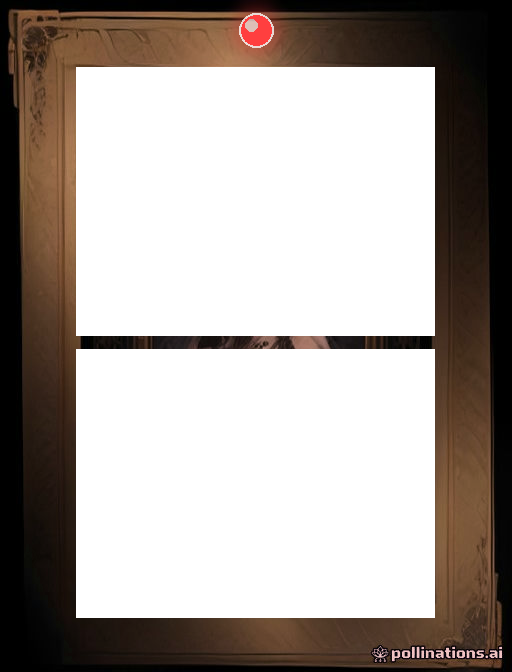
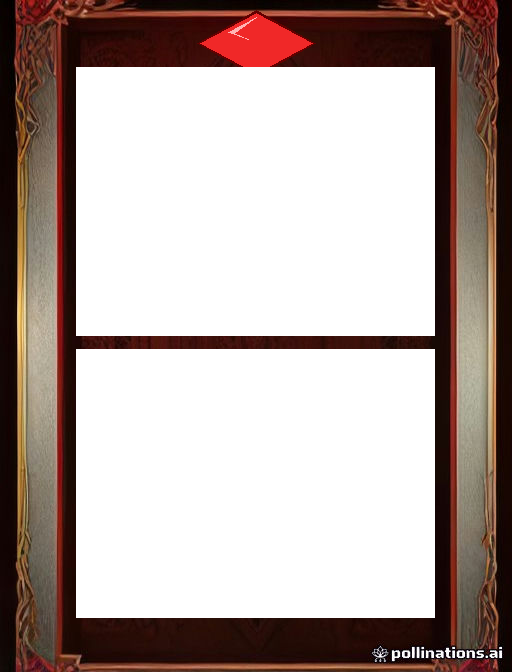
统一稀有度卡框：AI生成5种色调金属边框+PIL统一绘制宝石+镂空处理
- AI生成统一风格金属边框（basic灰黑/uncommon青铜绿/rare黄金/epic暗紫/unique血红）
- PIL统一绘制菱形宝石（uncommon绿/rare琥珀/epic紫/unique红），位置大小完全一致
- process_frames.py加入宝石绘制功能+镂空卡图区(10%-50%)和描述区(52%-92%)
- 删除旧底框frame_base_raw.png
- 识图验证：风格统一8.5/10，宝石位置一致，稀有度区别明显

diff --git a/art_assets/generate_frames.py b/art_assets/generate_frames.py
@@ -1,52 +1,59 @@
 """
-Generate card frame assets for different rarities using Pollinations.ai (free).
+三段式提示词生成统一卡框：规范+风格+稀有度细节
 Usage: python generate_frames.py
 """
 import urllib.request
 import urllib.parse
 import time
 import os
+from PIL import Image
 
 BASE_DIR = os.path.dirname(os.path.abspath(__file__))
 FRAMES_DIR = os.path.join(BASE_DIR, "frames")
 os.makedirs(FRAMES_DIR, exist_ok=True)
 
-STYLE = (
-    "dark fantasy card game frame, "
-    "very wide thick broad ornate metallic border frame, "
-    "the border takes up 15 percent of the card width on each side, "
-    "heavy decorative corners with runes and filigree, "
-    "the center is flat solid black with absolutely nothing inside, "
+SPEC = (
+    "vertical portrait card frame, "
+    "wide ornate border occupying 15 percent width on each side, "
+    "center is completely empty solid black, "
     "no artwork no illustration no portrait no image in the center, "
-    "only the wide ornate border frame is visible, "
-    "vertical portrait card layout, "
-    "silver and dark grey metal tones with subtle wear, "
-    "high quality game UI design, "
+    "card art area top 10 to 50 percent and text area bottom 52 to 92 percent must be empty, "
     "perfectly symmetrical left right mirror symmetry, "
-    "perfectly straight horizontal vertical no tilt no rotation no perspective, "
-    "flat 2D front view no 3D no angle, "
-    "no text no watermark no letters no words"
+    "no tilt no rotation no perspective, flat 2D front view, "
+    "no text no letters no words no watermark"
 )
 
-FRAMES = {
+STYLE = (
+    "dark fantasy card game frame, "
+    "heavy metallic ornate border with runes and filigree, "
+    "decorative corners, intricate scrollwork, "
+    "high quality game UI design, detailed, sharp"
+)
+
+RARITY_DETAIL = {
     "frame_basic": (
-        "plain simple border, no gem, no jewel, "
+        "weathered iron metal, dark steel grey tones, "
+        "simple plain border without any gem or jewel, "
         "common basic card frame"
     ),
     "frame_uncommon": (
-        "a glowing bright blue sapphire gem embedded at the top center of the border, "
-        "blue magical energy emanating from the gem"
+        "polished bronze metal with green patina, "
+        "a glowing bright emerald gem embedded at top center of border, "
+        "green magical energy emanating from the gem"
     ),
     "frame_rare": (
-        "a glowing warm orange amber gem embedded at the top center of the border, "
-        "orange golden magical energy emanating from the gem"
+        "shining gold metal, warm golden tones, "
+        "a glowing amber gem embedded at top center of border, "
+        "golden energy emanating from the gem"
     ),
     "frame_epic": (
-        "a glowing vivid purple amethyst gem embedded at the top center of the border, "
+        "dark obsidian metal with purple veins, "
+        "a glowing amethyst gem embedded at top center of border, "
         "purple arcane energy emanating from the gem"
     ),
     "frame_unique": (
-        "a glowing crimson red ruby gem embedded at the top center of the border, "
+        "crimson red metal with fire patterns, "
+        "a glowing ruby gem embedded at top center of border, "
         "red fiery energy emanating from the gem, legendary card frame"
     ),
 }
@@ -59,43 +66,45 @@ def generate(prompt, filename, width=512, height=672, seed=42):
         f"?width={width}&height={height}&model=flux&nologo=true&seed={seed}"
     )
     filepath = os.path.join(FRAMES_DIR, filename)
-    try:
-        req = urllib.request.Request(url, headers={"User-Agent": "Mozilla/5.0"})
-        with urllib.request.urlopen(req, timeout=180) as resp:
-            data = resp.read()
-        if len(data) < 1000:
-            print(f"  FAIL (too small: {len(data)} bytes): {filename}")
-            return False
-        with open(filepath, "wb") as f:
-            f.write(data)
-        print(f"  OK ({len(data)} bytes): {filename}")
-        return True
-    except Exception as e:
-        print(f"  FAIL ({e}): {filename}")
-        return False
+    for attempt in range(5):
+        try:
+            req = urllib.request.Request(url, headers={"User-Agent": "Mozilla/5.0"})
+            with urllib.request.urlopen(req, timeout=180) as resp:
+                data = resp.read()
+            if len(data) < 1000:
+                print(f"  FAIL (too small): attempt {attempt+1}")
+                continue
+            with open(filepath, "wb") as f:
+                f.write(data)
+            img = Image.open(filepath).convert("RGBA")
+            img.save(filepath, "PNG")
+            print(f"  OK ({len(data)} bytes): {filename}")
+            return True
+        except Exception as e:
+            print(f"  FAIL ({e}): attempt {attempt+1}")
+        time.sleep(30)
+    return False
 
 
 def main():
-    total = len(FRAMES)
+    total = len(RARITY_DETAIL)
     ok = 0
-    for i, (name, gem_desc) in enumerate(FRAMES.items()):
-        prompt = f"{gem_desc}, {STYLE}"
+    for i, (name, detail) in enumerate(RARITY_DETAIL.items()):
+        prompt = f"{detail}, {STYLE}, {SPEC}"
         filename = f"{name}.png"
         print(f"[{i+1}/{total}] {name}...")
+        print(f"  prompt: {detail[:60]}...")
         seed = hash(name) % 10000
-        success = False
-        for attempt in range(5):
-            if generate(prompt, filename, seed=seed + attempt):
-                success = True
-                break
-            print(f"  retry {attempt+1}/5, waiting 30s...")
-            time.sleep(30)
-        if success:
+        if generate(prompt, filename, seed=seed):
             ok += 1
             time.sleep(30)
-        else:
-            print(f"  SKIPPED after 5 retries: {name}")
     print(f"\nDone: {ok}/{total} succeeded")
+
+    if ok == total:
+        print("\n=== Processing (cutout center) ===")
+        import process_frames
+        for name in RARITY_DETAIL:
+            process_frames.process_frame(f"{name}.png")
 
 
 if __name__ == "__main__":

diff --git a/art_assets/process_frames.py b/art_assets/process_frames.py
@@ -1,22 +1,24 @@
 """
 处理卡框图片：
 1. 用 PIL 重新保存为真正 PNG 格式（Pollinations.ai 返回 JPEG）
-2. 精确镂空卡图区（上半部分）和描述区（下半部分），只保留外圈边框和中间分隔线
+2. PIL 统一绘制宝石（AI 无法稳定生成宝石，改用代码绘制）
+3. 精确镂空卡图区（上半部分）和描述区（下半部分），只保留外圈边框和中间分隔线
 
 卡牌布局（512×672，比例 1:1.3125）：
-- 外圈边框：约 11% 宽（扩大边框，防止遮挡）
-- 卡图区：y = 8% ~ 50%, x = 11% ~ 89%  → 透明
+- 外圈边框：约 15% 宽（扩大边框，防止遮挡）
+- 宝石：顶部中心，y ≈ 3%~9%
+- 卡图区：y = 10% ~ 50%, x = 15% ~ 85%  → 透明
 - 中间分隔线：y = 50% ~ 52%  → 保留
-- 描述区：y = 52% ~ 93%, x = 11% ~ 89%  → 透明
-- 底部稀有度色带：y = 93% ~ 98%  → 保留
+- 描述区：y = 52% ~ 92%, x = 15% ~ 85%  → 透明
+- 底部稀有度色带：y = 92% ~ 98%  → 保留
 """
-from PIL import Image
+from PIL import Image, ImageDraw
 import os
 
 FRAME_DIR = os.path.join(os.path.dirname(__file__), "frames")
 
-# 边框保留宽度（百分比）— 扩大到 15% 防止遮挡
-BORDER_W_PCT = 0.15   # 左右边框保留 15%
+# 边框保留宽度（百分比）
+BORDER_W_PCT = 0.15
 
 # 卡图区（上半部分中间）→ 透明
 ART_TOP_PCT = 0.10
@@ -26,10 +28,88 @@ ART_BOT_PCT = 0.50
 DESC_TOP_PCT = 0.52
 DESC_BOT_PCT = 0.92
 
+# 宝石配置（按稀有度）
+# basic 无宝石
+GEM_CONFIG = {
+    "frame_uncommon.png": {
+        "color": (40, 220, 80),       # 绿宝石
+        "highlight": (180, 255, 200), # 浅绿高光
+        "edge": (10, 80, 25),         # 深绿描边
+    },
+    "frame_rare.png": {
+        "color": (255, 170, 30),      # 琥珀/橙宝石
+        "highlight": (255, 230, 150), # 浅金高光
+        "edge": (100, 60, 0),         # 深棕描边
+    },
+    "frame_epic.png": {
+        "color": (170, 60, 255),      # 紫宝石
+        "highlight": (220, 170, 255), # 浅紫高光
+        "edge": (60, 10, 100),        # 深紫描边
+    },
+    "frame_unique.png": {
+        "color": (240, 40, 40),       # 红宝石
+        "highlight": (255, 180, 180), # 浅红高光
+        "edge": (100, 0, 0),          # 深红描边
+    },
+}
 
-def process_frame(name):
-    path = os.path.join(FRAME_DIR, name)
-    img = Image.open(path).convert("RGBA")
+
+def draw_gem(img, config):
+    """在卡框顶部中心绘制菱形宝石 + 高光 + 描边"""
+    w, h = img.size
+    cx = w // 2
+    cy = int(h * 0.065)  # 宝石中心 y 位置
+
+    gem_w = int(w * 0.11)  # 宝石半宽
+    gem_h = int(h * 0.045) # 宝石半高
+
+    draw = ImageDraw.Draw(img)
+
+    # 菱形顶点（外圈描边）
+    outer = [
+        (cx, cy - gem_h - 3),
+        (cx + gem_w + 3, cy),
+        (cx, cy + gem_h + 3),
+        (cx - gem_w - 3, cy),
+    ]
+    # 菱形主体
+    main = [
+        (cx, cy - gem_h),
+        (cx + gem_w, cy),
+        (cx, cy + gem_h),
+        (cx - gem_w, cy),
+    ]
+    # 高光（左上小菱形）
+    hl_w = int(gem_w * 0.4)
+    hl_h = int(gem_h * 0.4)
+    highlight = [
+        (cx, cy - gem_h + 4),
+        (cx - hl_w, cy - hl_h + 2),
+        (cx - int(gem_w * 0.15), cy - int(gem_h * 0.15)),
+        (cx - int(gem_w * 0.5), cy - int(gem_h * 0.5) + 4),
+    ]
+
+    # 先画描边（深色）
+    draw.polygon(outer, fill=config["edge"])
+    # 再画主体
+    draw.polygon(main, fill=config["color"])
+    # 高光
+    draw.polygon(highlight, fill=config["highlight"])
+
+    # 宝石底部金属底座（梯形）
+    base_w = int(gem_w * 1.4)
+    base_top = cy + gem_h + 3
+    base_bot = base_top + 8
+    draw.polygon([
+        (cx - base_w, base_top),
+        (cx + base_w, base_top),
+        (cx + int(base_w * 0.7), base_bot),
+        (cx - int(base_w * 0.7), base_bot),
+    ], fill=config["edge"])
+
+
+def cutout_frame(img):
+    """镂空卡图区和描述区"""
     w, h = img.size
     pixels = img.load()
 
@@ -50,10 +130,26 @@ def process_frame(name):
         for x in range(inner_left, inner_right):
             pixels[x, y] = (0, 0, 0, 0)
 
+    return (inner_left, art_top, inner_right, art_bot, desc_top, desc_bot)
+
+
+def process_frame(name):
+    path = os.path.join(FRAME_DIR, name)
+    img = Image.open(path).convert("RGBA")
+    w, h = img.size
+
+    # 绘制宝石（basic 无宝石）
+    if name in GEM_CONFIG:
+        draw_gem(img, GEM_CONFIG[name])
+
+    # 镂空
+    info = cutout_frame(img)
+
     img.save(path, "PNG")
-    print(f"处理完成: {name} ({w}x{h})")
-    print(f"  卡图区透明: ({inner_left},{art_top})-({inner_right},{art_bot})")
-    print(f"  描述区透明: ({inner_left},{desc_top})-({inner_right},{desc_bot})")
+    gem_str = "有宝石" if name in GEM_CONFIG else "无宝石"
+    print(f"处理完成: {name} ({w}x{h}) {gem_str}")
+    print(f"  卡图区透明: ({info[0]},{info[1]})-({info[2]},{info[3]})")
+    print(f"  描述区透明: ({info[0]},{info[4]})-({info[2]},{info[5]})")
 
 
 if __name__ == "__main__":
